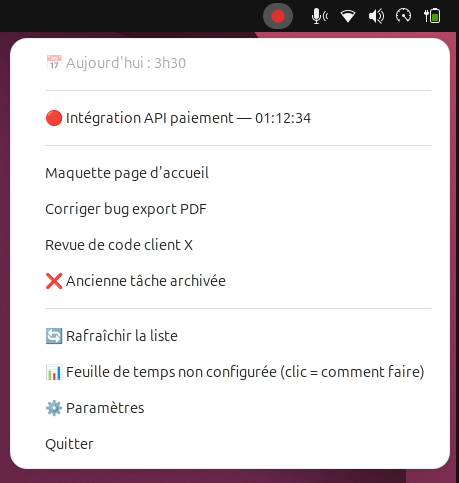
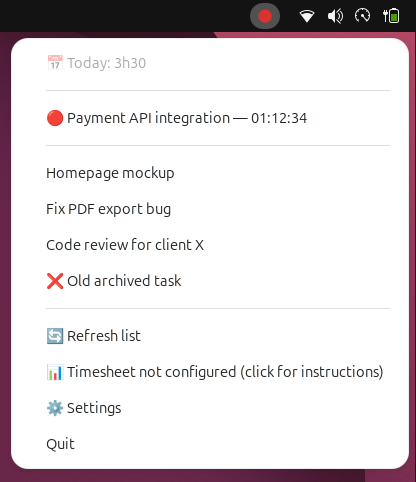
chore: switch cli to english

diff --git a/wrike_timer/tray_app.py b/wrike_timer/tray_app.py
@@ -9,7 +9,7 @@ from datetime import date
 import pystray
 from PIL import Image, ImageDraw
 
-from . import config, timer
+from . import config, i18n, timer
 from .state_store import StateStore
 from .wrike_api import WrikeApiError, WrikeClient
 
@@ -37,6 +37,7 @@ def _make_icon(color):
 class TrayApp:
     def __init__(self, token, cfg):
         self.cfg = cfg
+        i18n.set_language(cfg.get("language", "en"))
         self.client = WrikeClient(token)
         self.store = StateStore(config.STATE_PATH)
         self.state = self.store.load()
@@ -177,7 +178,7 @@ class TrayApp:
     def _on_settings(self, icon, item):
         message = f"Config: {config.CONFIG_PATH}\nLogs: {config.LOG_PATH}"
         try:
-            icon.notify(message, "Wrike Timer — Paramètres")
+            icon.notify(message, i18n.t("settings_notification_title"))
         except Exception:
             log.info("Settings: %s", message.replace("\n", " | "))
 
@@ -185,12 +186,9 @@ class TrayApp:
         webbrowser.open(self.cfg["timesheet_url"])
 
     def _on_timesheet_url_missing(self, icon, item):
-        message = (
-            f'Ajoute "timesheet_url": "<ton url>" dans {config.CONFIG_PATH}\n'
-            "(copie l'URL depuis ton navigateur, sur ta page Timesheets Wrike)."
-        )
+        message = i18n.t("timesheet_missing_notification_body", config_path=config.CONFIG_PATH)
         try:
-            icon.notify(message, "Wrike Timer — Feuille de temps")
+            icon.notify(message, i18n.t("timesheet_missing_notification_title"))
         except Exception:
             log.info("Timesheet URL not configured: %s", message.replace("\n", " "))
 
@@ -202,9 +200,8 @@ class TrayApp:
         items = []
 
         if self.today_total_hours is not None:
-            items.append(
-                pystray.MenuItem(f"📅 Aujourd'hui : {timer.format_hours(self.today_total_hours)}", None, enabled=False)
-            )
+            hours_label = timer.format_hours(self.today_total_hours)
+            items.append(pystray.MenuItem(i18n.t("today_total", hours=hours_label), None, enabled=False))
             items.append(pystray.Menu.SEPARATOR)
 
         if self.active_timer:
@@ -212,9 +209,7 @@ class TrayApp:
             items.append(pystray.MenuItem(f"🔴 {self.active_timer.task_title} — {elapsed}", self._on_stop))
             if self.resume_gap_seconds:
                 gap_label = timer.format_hours(self.resume_gap_seconds / 3600)
-                items.append(
-                    pystray.MenuItem(f"⚠ Reprise après ~{gap_label} d'interruption détectée", None, enabled=False)
-                )
+                items.append(pystray.MenuItem(i18n.t("resume_gap", gap=gap_label), None, enabled=False))
             items.append(pystray.Menu.SEPARATOR)
 
         recent = self.state.get("recent_tasks", [])
@@ -225,20 +220,20 @@ class TrayApp:
                 label = timer.task_label(task["title"], task.get("status"))
                 items.append(pystray.MenuItem(label, self._make_start_handler(task)))
         else:
-            items.append(pystray.MenuItem("(aucun ticket récent — Rafraîchir)", None, enabled=False))
+            items.append(pystray.MenuItem(i18n.t("no_recent_tasks"), None, enabled=False))
         items.append(pystray.Menu.SEPARATOR)
 
         pending = self.state.get("pending_timelogs", [])
         if pending:
-            items.append(pystray.MenuItem(f"⚠ {len(pending)} envoi(s) en attente", self._on_retry_pending))
+            items.append(pystray.MenuItem(i18n.t("pending_timelogs", count=len(pending)), self._on_retry_pending))
 
-        items.append(pystray.MenuItem("🔄 Rafraîchir la liste", self._on_refresh))
+        items.append(pystray.MenuItem(i18n.t("refresh_list"), self._on_refresh))
         if self.cfg.get("timesheet_url"):
-            items.append(pystray.MenuItem("📊 Ouvrir ma feuille de temps", self._on_open_timesheet))
+            items.append(pystray.MenuItem(i18n.t("open_timesheet"), self._on_open_timesheet))
         else:
-            items.append(pystray.MenuItem("📊 Feuille de temps non configurée (clic = comment faire)", self._on_timesheet_url_missing))
-        items.append(pystray.MenuItem("⚙ Paramètres", self._on_settings))
-        items.append(pystray.MenuItem("Quitter", self._on_quit))
+            items.append(pystray.MenuItem(i18n.t("timesheet_not_configured"), self._on_timesheet_url_missing))
+        items.append(pystray.MenuItem(i18n.t("settings"), self._on_settings))
+        items.append(pystray.MenuItem(i18n.t("quit"), self._on_quit))
         return pystray.Menu(*items)
 
     def _background_loop(self):
@@ -277,13 +272,15 @@ def run(cfg, token):
     TrayApp(token, cfg).run()
 
 
-def run_unconfigured():
+def run_unconfigured(cfg):
+    i18n.set_language(cfg.get("language", "en"))
+
     def on_quit(icon, item):
         icon.stop()
 
     menu = pystray.Menu(
-        pystray.MenuItem("⚠ Configuration requise — lancer : wrike_timer.py --set-token", None, enabled=False),
-        pystray.MenuItem("Quitter", on_quit),
+        pystray.MenuItem(i18n.t("unconfigured_menu_item"), None, enabled=False),
+        pystray.MenuItem(i18n.t("quit"), on_quit),
     )
-    icon = pystray.Icon("wrike-timer", _make_icon(COLOR_UNCONFIGURED), "Wrike Timer — non configuré", menu)
+    icon = pystray.Icon("wrike-timer", _make_icon(COLOR_UNCONFIGURED), i18n.t("unconfigured_icon_title"), menu)
     icon.run()

diff --git a/wrike_timer/i18n.py b/wrike_timer/i18n.py
@@ -1,0 +1,84 @@
+"""Minimal string catalog for the tray UI, selected via config's "language" key.
+
+Not a general-purpose i18n framework — just enough to keep the handful of
+tray/notification strings translatable without duplicating _build_menu logic
+per language. Defaults to "en"; set "language": "fr" in config.json to get
+the app's original French strings back.
+"""
+
+_current_lang = "en"
+
+_STRINGS = {
+    "today_total": {
+        "fr": "📅 Aujourd'hui : {hours}",
+        "en": "📅 Today: {hours}",
+    },
+    "resume_gap": {
+        "fr": "⚠ Reprise après ~{gap} d'interruption détectée",
+        "en": "⚠ Resumed after a ~{gap} gap (interruption detected)",
+    },
+    "no_recent_tasks": {
+        "fr": "(aucun ticket récent — Rafraîchir)",
+        "en": "(no recent tasks — Refresh)",
+    },
+    "pending_timelogs": {
+        "fr": "⚠ {count} envoi(s) en attente",
+        "en": "⚠ {count} pending submission(s)",
+    },
+    "refresh_list": {
+        "fr": "🔄 Rafraîchir la liste",
+        "en": "🔄 Refresh list",
+    },
+    "open_timesheet": {
+        "fr": "📊 Ouvrir ma feuille de temps",
+        "en": "📊 Open my timesheet",
+    },
+    "timesheet_not_configured": {
+        "fr": "📊 Feuille de temps non configurée (clic = comment faire)",
+        "en": "📊 Timesheet not configured (click for instructions)",
+    },
+    "settings": {
+        "fr": "⚙ Paramètres",
+        "en": "⚙ Settings",
+    },
+    "quit": {
+        "fr": "Quitter",
+        "en": "Quit",
+    },
+    "settings_notification_title": {
+        "fr": "Wrike Timer — Paramètres",
+        "en": "Wrike Timer — Settings",
+    },
+    "timesheet_missing_notification_title": {
+        "fr": "Wrike Timer — Feuille de temps",
+        "en": "Wrike Timer — Timesheet",
+    },
+    "timesheet_missing_notification_body": {
+        "fr": (
+            'Ajoute "timesheet_url": "<ton url>" dans {config_path}\n'
+            "(copie l'URL depuis ton navigateur, sur ta page Timesheets Wrike)."
+        ),
+        "en": (
+            'Add "timesheet_url": "<your url>" to {config_path}\n'
+            "(copy the URL from your browser, on your Wrike Timesheets page)."
+        ),
+    },
+    "unconfigured_menu_item": {
+        "fr": "⚠ Configuration requise — lancer : wrike_timer.py --set-token",
+        "en": "⚠ Configuration required — run: wrike_timer.py --set-token",
+    },
+    "unconfigured_icon_title": {
+        "fr": "Wrike Timer — non configuré",
+        "en": "Wrike Timer — not configured",
+    },
+}
+
+
+def set_language(lang):
+    global _current_lang
+    _current_lang = lang if lang in ("fr", "en") else "en"
+
+
+def t(key, **kwargs):
+    template = _STRINGS[key][_current_lang]
+    return template.format(**kwargs) if kwargs else template

diff --git a/tests/test_tray_app.py b/tests/test_tray_app.py
@@ -24,10 +24,10 @@ class FakeClient:
         self.posted.append({"task_id": task_id, "hours": hours, "tracked_date": tracked_date, "comment": comment})
 
 
-def make_app(tmp_path, monkeypatch, recent_tasks=None):
+def make_app(tmp_path, monkeypatch, recent_tasks=None, cfg=None):
     monkeypatch.setattr(tray_app_module, "WrikeClient", FakeClient)
     monkeypatch.setattr(tray_app_module.config, "STATE_PATH", tmp_path / "state.json")
-    app = TrayApp("token", CFG)
+    app = TrayApp("token", cfg or CFG)
     app.state["recent_tasks"] = recent_tasks or []
     return app
 
@@ -88,3 +88,21 @@ def test_build_menu_excludes_active_task_and_enables_others(tmp_path, monkeypatc
 
     b_item = next(item for item in menu_items if getattr(item, "text", None) == "Task B")
     assert b_item.enabled
+
+
+def test_build_menu_defaults_to_english(tmp_path, monkeypatch):
+    app = make_app(tmp_path, monkeypatch)
+
+    labels = [item.text for item in app._build_menu()]
+
+    assert "Quit" in labels
+    assert "Quitter" not in labels
+
+
+def test_build_menu_respects_language_config(tmp_path, monkeypatch):
+    app = make_app(tmp_path, monkeypatch, cfg={**CFG, "language": "fr"})
+
+    labels = [item.text for item in app._build_menu()]
+
+    assert "Quitter" in labels
+    assert "Quit" not in labels

diff --git a/scripts/fake_tray_screenshot.py b/scripts/fake_tray_screenshot.py
@@ -30,6 +30,7 @@ FAKE_CFG = {
     "recent_tasks_lookback_days": 30,
     "refresh_interval_seconds": 3600,
     "timesheet_url": "",
+    "language": "en",
 }
 
 FAKE_RECENT_TASKS = [
@@ -62,7 +63,7 @@ def main():
     app._refresh_icon_and_menu()
 
     print("Tray icon shown with fake data. Click the icon to open the menu.")
-    print("Ctrl+C or the 'Quitter' entry in the menu to stop (menu is still French for now).")
+    print("Ctrl+C or the 'Quit' entry in the menu to stop.")
     app.icon.run()
 
 

diff --git a/wrike_timer.py b/wrike_timer.py
@@ -95,7 +95,7 @@ def main():
     cfg = config.load_config()
     if not token:
         logging.getLogger(__name__).warning("No token configured, starting in unconfigured mode")
-        tray_app.run_unconfigured()
+        tray_app.run_unconfigured(cfg)
         return 0
 
     tray_app.run(cfg, token)

diff --git a/wrike_timer/config.py b/wrike_timer/config.py
@@ -24,6 +24,7 @@ DEFAULT_CONFIG = {
     "recent_tasks_limit": 10,
     "recent_tasks_lookback_days": 30,
     "timesheet_url": "",
+    "language": "en",
 }
 
 log = logging.getLogger(__name__)

diff --git a/README.md b/README.md
@@ -65,6 +65,7 @@ If the submission fails (network down, API unavailable), tracked time is **never
 | `recent_tasks_limit` | `10` | Number of tasks shown in the menu |
 | `recent_tasks_lookback_days` | `30` | Window (in days) to look back for recent tasks |
 | `timesheet_url` | `""` | URL of your Wrike timesheet (copied from the browser's address bar, on your Timesheets page). If non-empty, the menu shows "📊 Open my timesheet" (opens the URL in the default browser). If empty, the menu shows "📊 Timesheet not configured (click for instructions)", which reminds you where to add this key. |
+| `language` | `"en"` | Language of the tray menu and notifications: `"en"` or `"fr"`. Falls back to `"en"` for any other value. Doesn't affect the CLI (`--set-token`, `--help`, etc.), which is English-only. |
 
 ⚠ Don't confuse this with `~/.local/share/wrike-timer/state.json`: this second file is an **internal cache** (recent tasks, active timer, retry queue, heartbeat), entirely rewritten by the app on every refresh cycle. Any key added by hand in there is ignored and eventually disappears on the next refresh — settings go in `config.json`, never in `state.json`.
 
